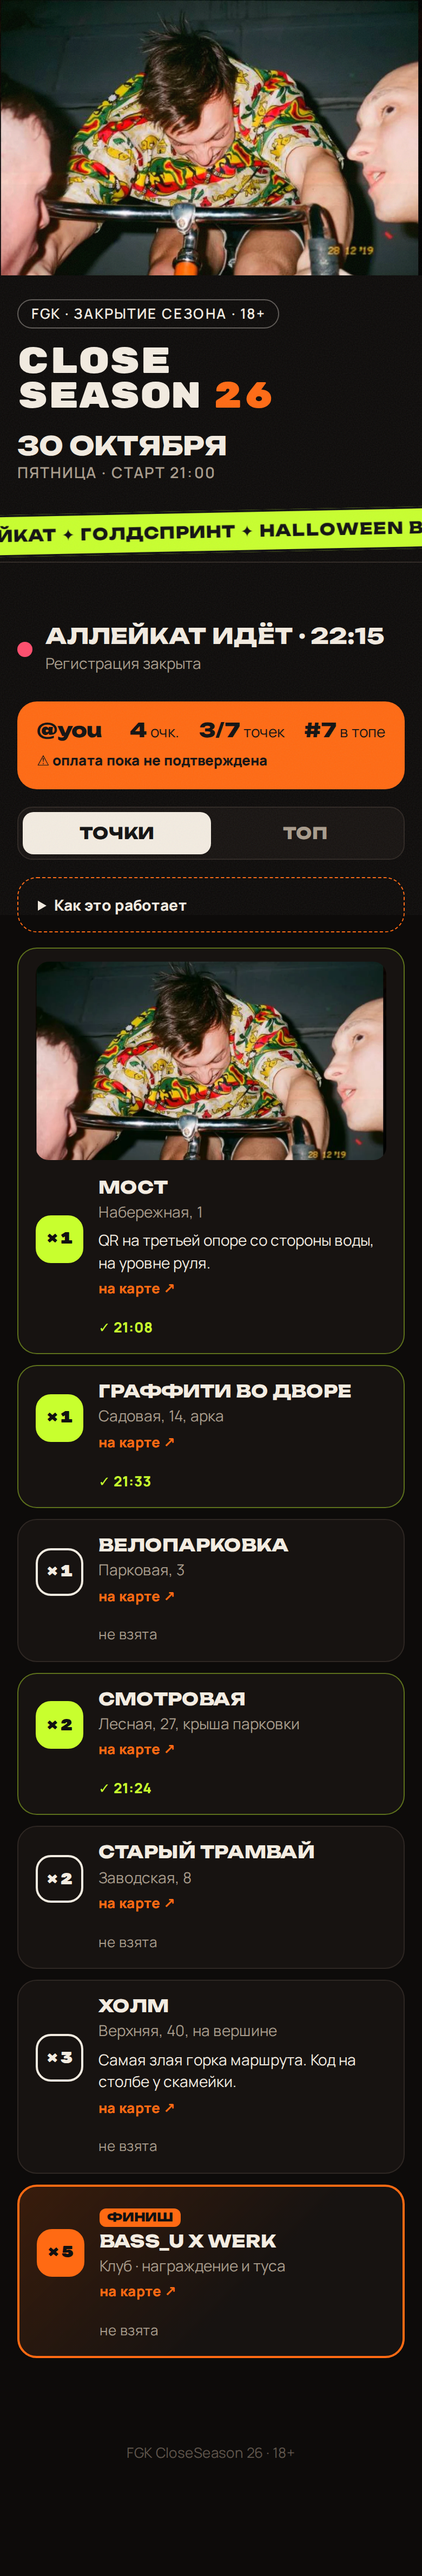
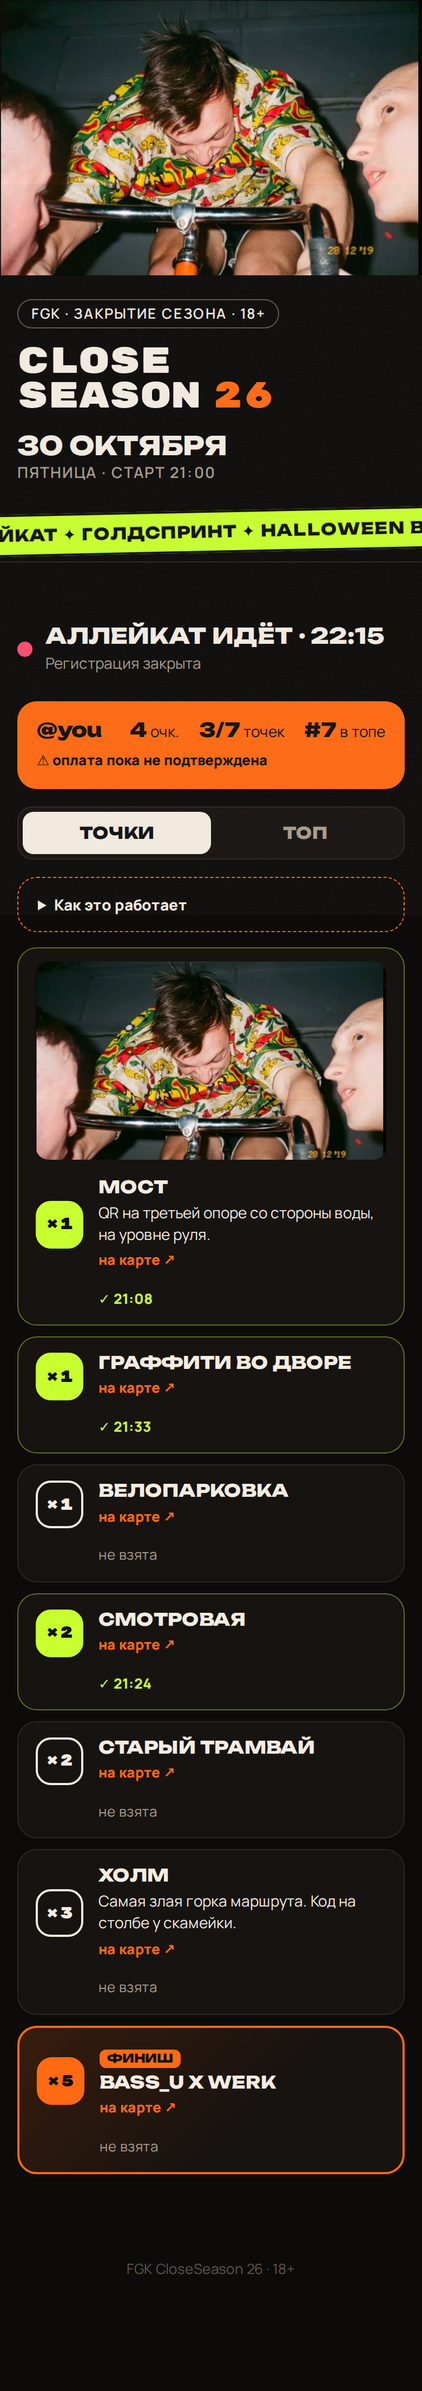
Точки: без адреса; колонки по названию; подсказка про фото поверх ячеек
- колонка «Адрес» убрана с листа, с сайта и из демо
- колонки листа «Точки» ищутся по заголовкам — порядок не важен
- setup перестраивает старые варианты листа (широта/долгота, адрес)
- «Обновить ссылки, QR и фото точек» подсказывает, у каких точек фото
  вставлено поверх ячеек и не попадёт на сайт

Claude-Session: https://claude.ai/code/session_0122weFEyBkPzVmy7e3pz2TB

diff --git a/server/test/server.test.js b/server/test/server.test.js
@@ -34,7 +34,7 @@ assert.equal(post({action:'login',nick:'@FIXIE_MASHA'}).nick,'fixie_masha');
 assert.equal(post({action:'login',nick:'nobody'}).ok,false);
 assert.match(post({action:'login',nick:'blocked_guy'}).error,/не допущен/);
 const pts=S('Точки').data.slice(1); // старый вид строки [.., .., .., lat, lng, .., .., secret] — чтобы не переписывать проверки ниже
-const old=r=>{const [la,ln]=r[3].split(',').map(Number);return [r[0],r[1],r[2],la,ln,r[4],r[5],r[6]];};
+const old=r=>{const [la,ln]=r[2].split(',').map(Number);return [r[0],r[1],'',la,ln,r[3],r[4],r[5]];};
 const [c1,c2,fin]=pts.map(old); 
 let r=post({action:'scan',nick:'bob_1',cp:'c1',k:c1[7],lat:c1[3],lng:c1[4],accuracy:10}); assert.equal(r.ok,false); assert.match(r.error,/старта/);
 setStart(Date.now()-60e3);
@@ -61,21 +61,23 @@ r=post({action:'scan',nick:'fixie_masha',cp:'c1',k:c1[7],lat:c1[3],lng:c1[4],acc
 st=get(); assert.deepEqual(st.leaderboard.map(x=>[x.nick,x.score]),[['bob_1',3],['fixie_masha',3]],'tie: earlier first');
 
 
-// описание, фото и координаты точек; перестройка старого листа
+// описание, фото и координаты точек; перестройка старых листов
+const NEW_HEAD=["ID","Название","Координаты","Ценность","Финиш","Секрет","Ссылка для QR","QR","Описание","Фото","Фото для сайта"];
 { const {load:l4}=require('./gas-mock'); const g4=l4();
   const pts=g4.ctx.SpreadsheetApp.getActive().insertSheet('Точки');
+  // самый первый вид листа: широта/долгота отдельно и адрес
   pts.data=[["ID","Название","Адрес","Широта","Долгота","Ценность","Финиш","Секрет","Ссылка для QR","QR"],["c1","Мост","Наб., 1",55.75,37.61,2,"","sec1","",""]];
   g4.ctx.setup();
-  assert.deepEqual(pts.data[0],["ID","Название","Адрес","Координаты","Ценность","Финиш","Секрет","Ссылка для QR","QR","Описание","Фото","Фото для сайта"]);
-  assert.deepEqual(pts.data[1].slice(0,7),["c1","Мост","Наб., 1","55.75, 37.61",2,"","sec1"],'секрет и ценность на месте');
-  g4.ctx.setup(); assert.equal(pts.data[0].length,12,'повторный setup ничего не ломает');
-  pts.data[1][9]='Под мостом, у третьей опоры';
-  pts.data[1][10]='https://drive.google.com/file/d/1AbCdEfGhIjKlMnOpQrStUvWxYz012345/view?usp=sharing';
-  pts.data.push(["c2","Б","","55.765000, 37.598000",1,"","sec2","","","","https://example.com/p.jpg"],["c3","В","","55,7; 37,6",1,"да","sec3","","","","не ссылка"]);
-  g4.ctx.refreshQr(); assert.match(pts.data[2][7],/\?cp=c2&k=sec2$/); assert.match(pts.data[2][8],/ENCODEURL\(H3\)/);
+  assert.deepEqual(pts.data[0],NEW_HEAD);
+  assert.deepEqual(pts.data[1].slice(0,6),["c1","Мост","55.75, 37.61",2,"","sec1"],'секрет и ценность на месте');
+  g4.ctx.setup(); assert.deepEqual(pts.data[0],NEW_HEAD,'повторный setup ничего не ломает');
+  pts.data[1][8]='Под мостом, у третьей опоры';
+  pts.data[1][9]='https://drive.google.com/file/d/1AbCdEfGhIjKlMnOpQrStUvWxYz012345/view?usp=sharing';
+  pts.data.push(["c2","Б","55.765000, 37.598000",1,"","sec2","","","","https://example.com/p.jpg"],["c3","В","55,7; 37,6",1,"да","sec3","","","","не ссылка"]);
+  g4.ctx.refreshQr(); assert.match(pts.data[2][6],/\?cp=c2&k=sec2$/); assert.match(pts.data[2][7],/ENCODEURL\(G3\)/);
   g4.sheets['Настройки'].data.find(r=>r[0]==='Старт')[1]=new Date(Date.now()-1000).toISOString();
   const cps=JSON.parse(g4.ctx.doGet({parameter:{action:'state'}}).s).checkpoints;
-  assert.deepEqual([cps[0].lat,cps[0].lng,cps[0].value],[55.75,37.61,2]);
+  assert.deepEqual([cps[0].lat,cps[0].lng,cps[0].value],[55.75,37.61,2]); assert.ok(!('address' in cps[0]));
   assert.deepEqual([cps[1].lat,cps[1].lng],[55.765,37.598]); assert.deepEqual([cps[2].lat,cps[2].lng,cps[2].final],[55.7,37.6,true]);
   assert.equal(cps[0].description,'Под мостом, у третьей опоры');
   assert.equal(cps[0].photo,'https://drive.google.com/thumbnail?id=1AbCdEfGhIjKlMnOpQrStUvWxYz012345&sz=w1200');
@@ -83,18 +85,30 @@ st=get(); assert.deepEqual(st.leaderboard.map(x=>[x.nick,x.score]),[['bob_1',3],
 
   // фото, вставленное прямо в ячейку
   const img={getContentUrl:()=>'https://lh3.googleusercontent.com/tmp-image'};
-  pts.data[3][10]=img; pts.data[3][9]='описание'; g4.ctx.refreshQr();
+  pts.data[3][9]=img; pts.data[3][8]='описание'; g4.ctx.refreshQr();
   assert.equal(g4.drive.files.length,1); assert.equal(g4.drive.files[0].name,'точка c3');
-  assert.match(pts.data[3][11],/^https:\/\/drive\.google\.com\/file\/d\/file0+1\/view$/);
-  assert.equal(pts.data[3][10],img,'ячейку с фото не трогаем'); assert.equal(pts.data[3][9],'описание');
+  assert.match(pts.data[3][10],/^https:\/\/drive\.google\.com\/file\/d\/file0+1\/view$/);
+  assert.equal(pts.data[3][9],img,'ячейку с фото не трогаем'); assert.equal(pts.data[3][8],'описание');
   g4.cache.clear(); let c3=JSON.parse(g4.ctx.doGet({parameter:{action:'state'}}).s).checkpoints[2];
   assert.equal(c3.photo,'https://drive.google.com/thumbnail?id=file00000000000000000001&sz=w1200');
-  // повторное обновление: новая копия, старая — в корзину; одна папка
   g4.ctx.refreshQr(); assert.equal(g4.drive.files.length,2); assert.deepEqual(g4.drive.trashed,['file00000000000000000001']); assert.equal(g4.drive.folder,1);
-  // фото убрали из ячейки — копия тоже уходит, сайт показывает без фото
-  pts.data[3][10]=''; g4.ctx.refreshQr(); assert.equal(pts.data[3][11],''); assert.equal(g4.drive.trashed.length,2);
-  // ссылка-строка в «Фото» по-прежнему работает
+  pts.data[3][9]=''; g4.ctx.refreshQr(); assert.equal(pts.data[3][10],''); assert.equal(g4.drive.trashed.length,2);
   g4.cache.clear(); assert.equal(JSON.parse(g4.ctx.doGet({parameter:{action:'state'}}).s).checkpoints[1].photo,'https://example.com/p.jpg');
+
+  // фото поверх ячеек — подсказка, в каких точках
+  pts.getImages=()=>[{getAnchorCell:()=>({getRow:()=>3})}];
+  g4.ctx.refreshQr(); assert.match(g4.alerts[0],/точки: c2/);
+}
+// лист в нынешнем виде у организатора: с «Адресом» и вставленным фото
+{ const {load:l5}=require('./gas-mock'); const g5=l5();
+  const pts=g5.ctx.SpreadsheetApp.getActive().insertSheet('Точки');
+  const img={getContentUrl:()=>'https://lh3.googleusercontent.com/x'};
+  pts.data=[["ID","Название","Адрес","Координаты","Ценность","Финиш","Секрет","Ссылка для QR","QR","Описание","Фото","Фото для сайта"],
+            ["fin","Клуб","ул. Х","55.7, 37.6",5,"да","secF","old","=IMAGE()","Вход со двора",img,""]];
+  g5.ctx.setup();
+  assert.deepEqual(pts.data[0],NEW_HEAD);
+  assert.deepEqual(pts.data[1].slice(0,6),["fin","Клуб","55.7, 37.6",5,"да","secF"]);
+  assert.equal(pts.data[1][8],'Вход со двора'); assert.equal(pts.data[1][9],img); assert.match(pts.data[1][10],/drive\.google\.com\/file\/d\//);
 }
 
 // без setup — понятная ошибка

diff --git a/data.js b/data.js
@@ -7,15 +7,15 @@ window.RACE = {
   radius: 150,
 
   checkpoints: [
-    { id: "c1", name: "Мост", address: "Набережная, 1", lat: 55.7520, lng: 37.6175, value: 1,
+    { id: "c1", name: "Мост", lat: 55.7520, lng: 37.6175, value: 1,
       description: "QR на третьей опоре со стороны воды, на уровне руля.", photo: "assets/hero.webp" },
-    { id: "c2", name: "Граффити во дворе", address: "Садовая, 14, арка", lat: 55.7585, lng: 37.6250, value: 1 },
-    { id: "c3", name: "Велопарковка", address: "Парковая, 3", lat: 55.7460, lng: 37.6050, value: 1 },
-    { id: "c4", name: "Смотровая", address: "Лесная, 27, крыша парковки", lat: 55.7650, lng: 37.5980, value: 2 },
-    { id: "c5", name: "Старый трамвай", address: "Заводская, 8", lat: 55.7390, lng: 37.6400, value: 2 },
-    { id: "c6", name: "Холм", address: "Верхняя, 40, на вершине", lat: 55.7700, lng: 37.6500, value: 3,
+    { id: "c2", name: "Граффити во дворе", lat: 55.7585, lng: 37.6250, value: 1 },
+    { id: "c3", name: "Велопарковка", lat: 55.7460, lng: 37.6050, value: 1 },
+    { id: "c4", name: "Смотровая", lat: 55.7650, lng: 37.5980, value: 2 },
+    { id: "c5", name: "Старый трамвай", lat: 55.7390, lng: 37.6400, value: 2 },
+    { id: "c6", name: "Холм", lat: 55.7700, lng: 37.6500, value: 3,
       description: "Самая злая горка маршрута. Код на столбе у скамейки." },
-    { id: "fin", name: "bass_u x werk", address: "Клуб · награждение и туса", lat: 55.7555, lng: 37.6320, value: 5, final: true },
+    { id: "fin", name: "bass_u x werk", lat: 55.7555, lng: 37.6320, value: 5, final: true },
   ],
 
   // сканы других участников: [id точки, минут после старта]

diff --git a/server/test/gas-mock.js b/server/test/gas-mock.js
@@ -21,9 +21,9 @@ class Sheet {
 }
 function load(){
   const sheets={};
-  const cache=new Map(), props={}, triggers=[], drive={folder:0,n:0,files:[],trashed:[],fetched:[]};
+  const cache=new Map(), props={}, triggers=[], drive={folder:0,n:0,files:[],trashed:[],fetched:[]}, alerts=[];
   const ctx={console,JSON,Math,Date,Number,String,Object,Error,isFinite,encodeURIComponent,
-    SpreadsheetApp:{getActive:()=>({getSheetByName:n=>sheets[n]||null,insertSheet:n=>(sheets[n]=new Sheet(n)),getSheets:()=>Object.values(sheets)})},
+    SpreadsheetApp:{getUi:()=>({alert:m=>alerts.push(m)}),getActive:()=>({getSheetByName:n=>sheets[n]||null,insertSheet:n=>(sheets[n]=new Sheet(n)),getSheets:()=>Object.values(sheets)})},
     PropertiesService:{getScriptProperties:()=>({getProperty:k=>props[k]??null,setProperty:(k,v)=>{props[k]=v;}})},
     ScriptApp:{getOAuthToken:()=>'tok',getProjectTriggers:()=>triggers,newTrigger:h=>({forSpreadsheet:()=>({onFormSubmit:()=>({create:()=>triggers.push({getHandlerFunction:()=>h})})})})},
     CacheService:{getScriptCache:()=>({get:k=>{const e=cache.get(k);return e&&e.exp>Date.now()?e.v:null;},put:(k,v,s)=>cache.set(k,{v,exp:Date.now()+s*1000}),remove:k=>cache.delete(k)})},
@@ -37,6 +37,6 @@ function load(){
   const folderObj={createFile:b=>{const id='file'+String(++drive.n).padStart(20,'0');drive.files.push({id,name:b.name});return {getId:()=>id,setSharing:()=>{}};}};
   vm.createContext(ctx);
   vm.runInContext(fs.readFileSync(require('path').join(__dirname, '..', 'Code.gs'),'utf8'),ctx);
-  return {ctx,sheets,cache,props,triggers,drive,Sheet};
+  return {ctx,sheets,cache,props,triggers,drive,alerts,Sheet};
 }
 module.exports={load,Sheet};

diff --git a/style.css b/style.css
@@ -457,7 +457,7 @@ h1, h2, h3 { margin: 0; }
   aspect-ratio: 16 / 9; background: var(--line);
 }
 .cp__photo img { width: 100%; height: 100%; object-fit: cover; }
-.cp p.cp__desc { margin-top: 6px; color: var(--ink); font-size: 14px; line-height: 1.45; white-space: pre-line; }
+.cp p.cp__desc { margin-top: 4px; color: var(--ink); font-size: 14px; line-height: 1.45; white-space: pre-line; }
 .cp p { margin: 2px 0 0; color: var(--muted); font-size: 14px; }
 .cp__map { color: var(--orange); font-size: 13px; font-weight: 700; text-decoration: none; }
 .cp__map:hover { text-decoration: underline; }

diff --git a/app.js b/app.js
@@ -230,7 +230,6 @@
           '<div class="cp__body">' +
           (c.final ? '<span class="cp__flag">финиш</span>' : "") +
           "<h3>" + esc(c.name) + "</h3>" +
-          "<p>" + esc(c.address) + "</p>" +
           (c.description ? '<p class="cp__desc">' + esc(c.description) + "</p>" : "") +
           '<a class="cp__map" href="' + map + '" target="_blank" rel="noopener">на карте ↗</a>' +
           "</div>" +

diff --git a/server/README.md b/server/README.md
@@ -40,9 +40,11 @@
    - **Ценность** — сколько очков даёт точка
    - **Финиш** — `да` у клуба
    - **Описание** — по желанию: где именно искать код, подсказка
-   - **Фото** — по желанию. Вставьте картинку прямо в ячейку:
-     «Вставка → Изображение → Изображение в ячейке» (не «поверх ячеек»).
-     Можно и ссылку на картинку.
+   - **Фото** — по желанию. Вставьте картинку **в ячейку**: «Вставка → Изображение →
+     Изображение в ячейке». Если фото уже висит поверх таблицы — нажмите на него →
+     ⋮ → «Поместить изображение в выбранную ячейку». Можно и ссылку на картинку.
+
+   Колонки ищутся по названию, порядок можно менять; лишние колонки сервер не читает.
 2. Меню «Аллейкат → Обновить ссылки, QR и фото точек» — у каждой точки появятся секрет,
    ссылка и картинка QR, а фото из ячеек сохранятся в папку «FGK CloseSeason 26 — фото точек»
    на вашем Диске (доступ по ссылке) — ссылка в колонке «Фото для сайта». Поменяли фото —
